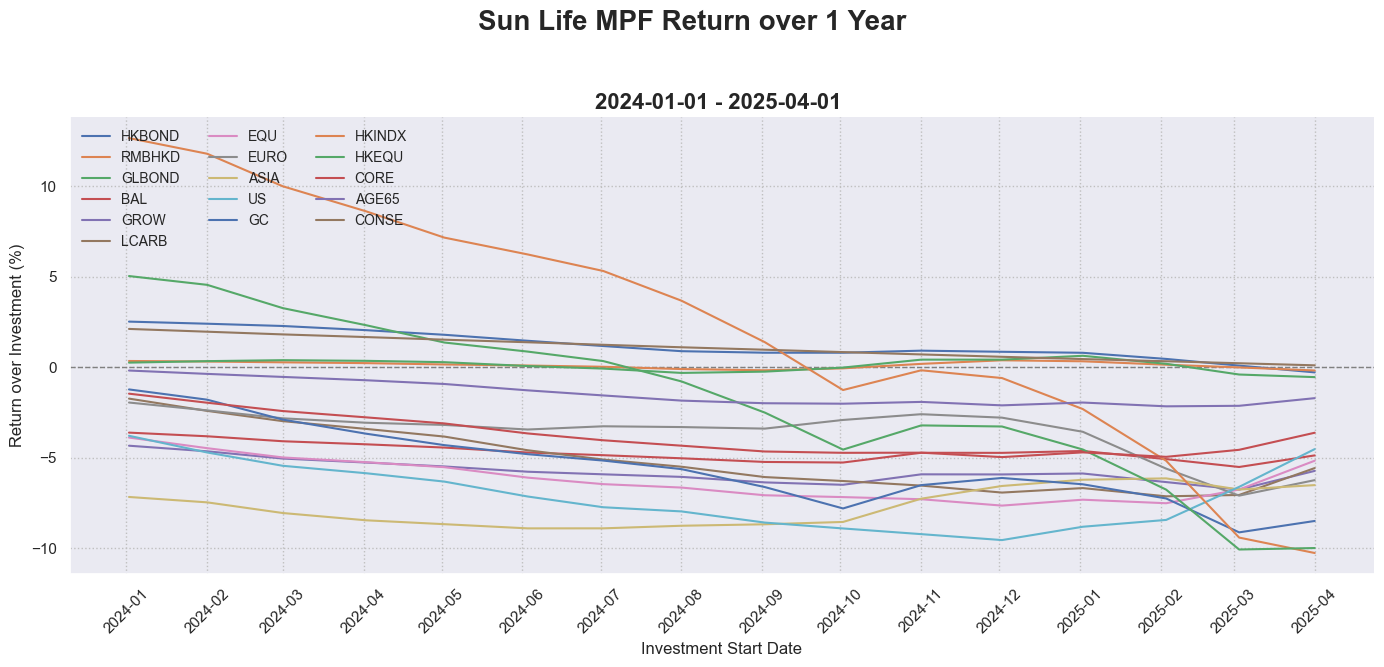
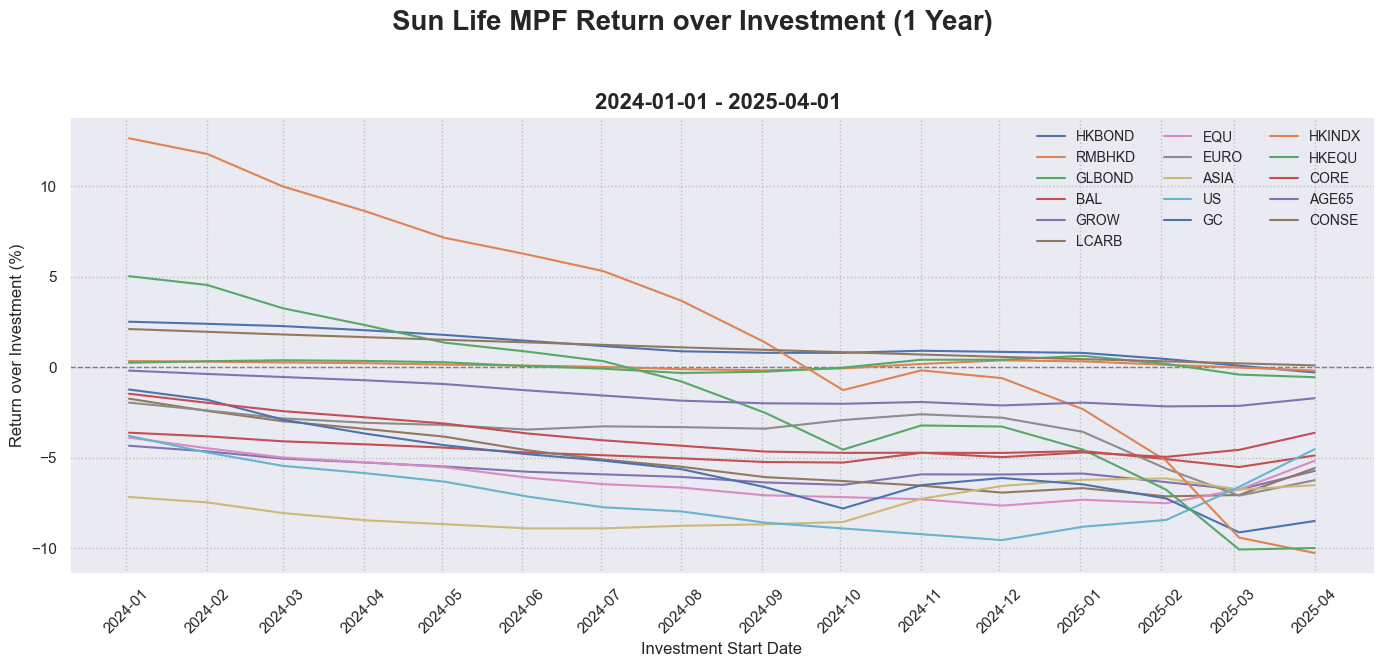
enhance styles

diff --git a/simulator.py b/simulator.py
@@ -113,18 +113,18 @@ def visualize_per_year(resdf, withInflation):
     start_dates = [datetime(year=last_date.year - period, month=1, day=1) for period in period_years]
     fund_abbrs = names['abbr'].unique()
 
-    # vals = [('roi', 'Return over Investment (%)'), ('annualized_roi', 'Annualized Return over Investment (%)')]
-    vals = [('roi', 'Return over Investment (%)')]
+    # vals = [('roi', 'Return over Investment')]
+    vals = [('annualized_roi', 'Annualized Return over Investment')]
 
     for ky, label in vals:
         for i in range(len(period_years)):
             start_date = start_dates[i]
             period_label = period_years[i]
             fig, ax = plt.subplots(figsize=(14, 7))
-            fig.suptitle(f'Sun Life MPF Return over {period_label} Year{period_label > 1 and "s" or ""}', fontsize=20, fontweight='bold')
+            fig.suptitle(f'Sun Life MPF {label} ({period_label} Year{period_label > 1 and "s" or ""})', fontsize=20, fontweight='bold')
             ax.set_title(f'{start_date.strftime("%Y-%m-%d")} - {last_date.strftime("%Y-%m-%d")} {withInflation and "(considering inflation)" or ""}', fontsize=16, fontweight='bold')
             ax.axhline(0, color='grey', linestyle='--', linewidth=1.0)
-            ax.set_ylabel(label)
+            ax.set_ylabel(f'{label} (%)')
             ax.set_xlabel('Investment Start Date')
             ax.xaxis.set_major_formatter(mdates.DateFormatter('%Y-%m'))
             ax.tick_params(axis='x', rotation=45)
@@ -145,7 +145,7 @@ def visualize_per_year(resdf, withInflation):
                 plot_df[ky] = plot_df[ky] * 100
                 ax.plot(plot_df['start_date'], plot_df[ky], label=abbr, linewidth=1.5)
 
-            ax.legend(loc='upper left', fontsize=10, frameon=False, ncols=3)
+            ax.legend(loc='upper right', fontsize=10, frameon=False, ncols=3)
             ax.grid(True, linestyle=':', linewidth=1, color='#bfbfbf')
             sns.despine()
 
